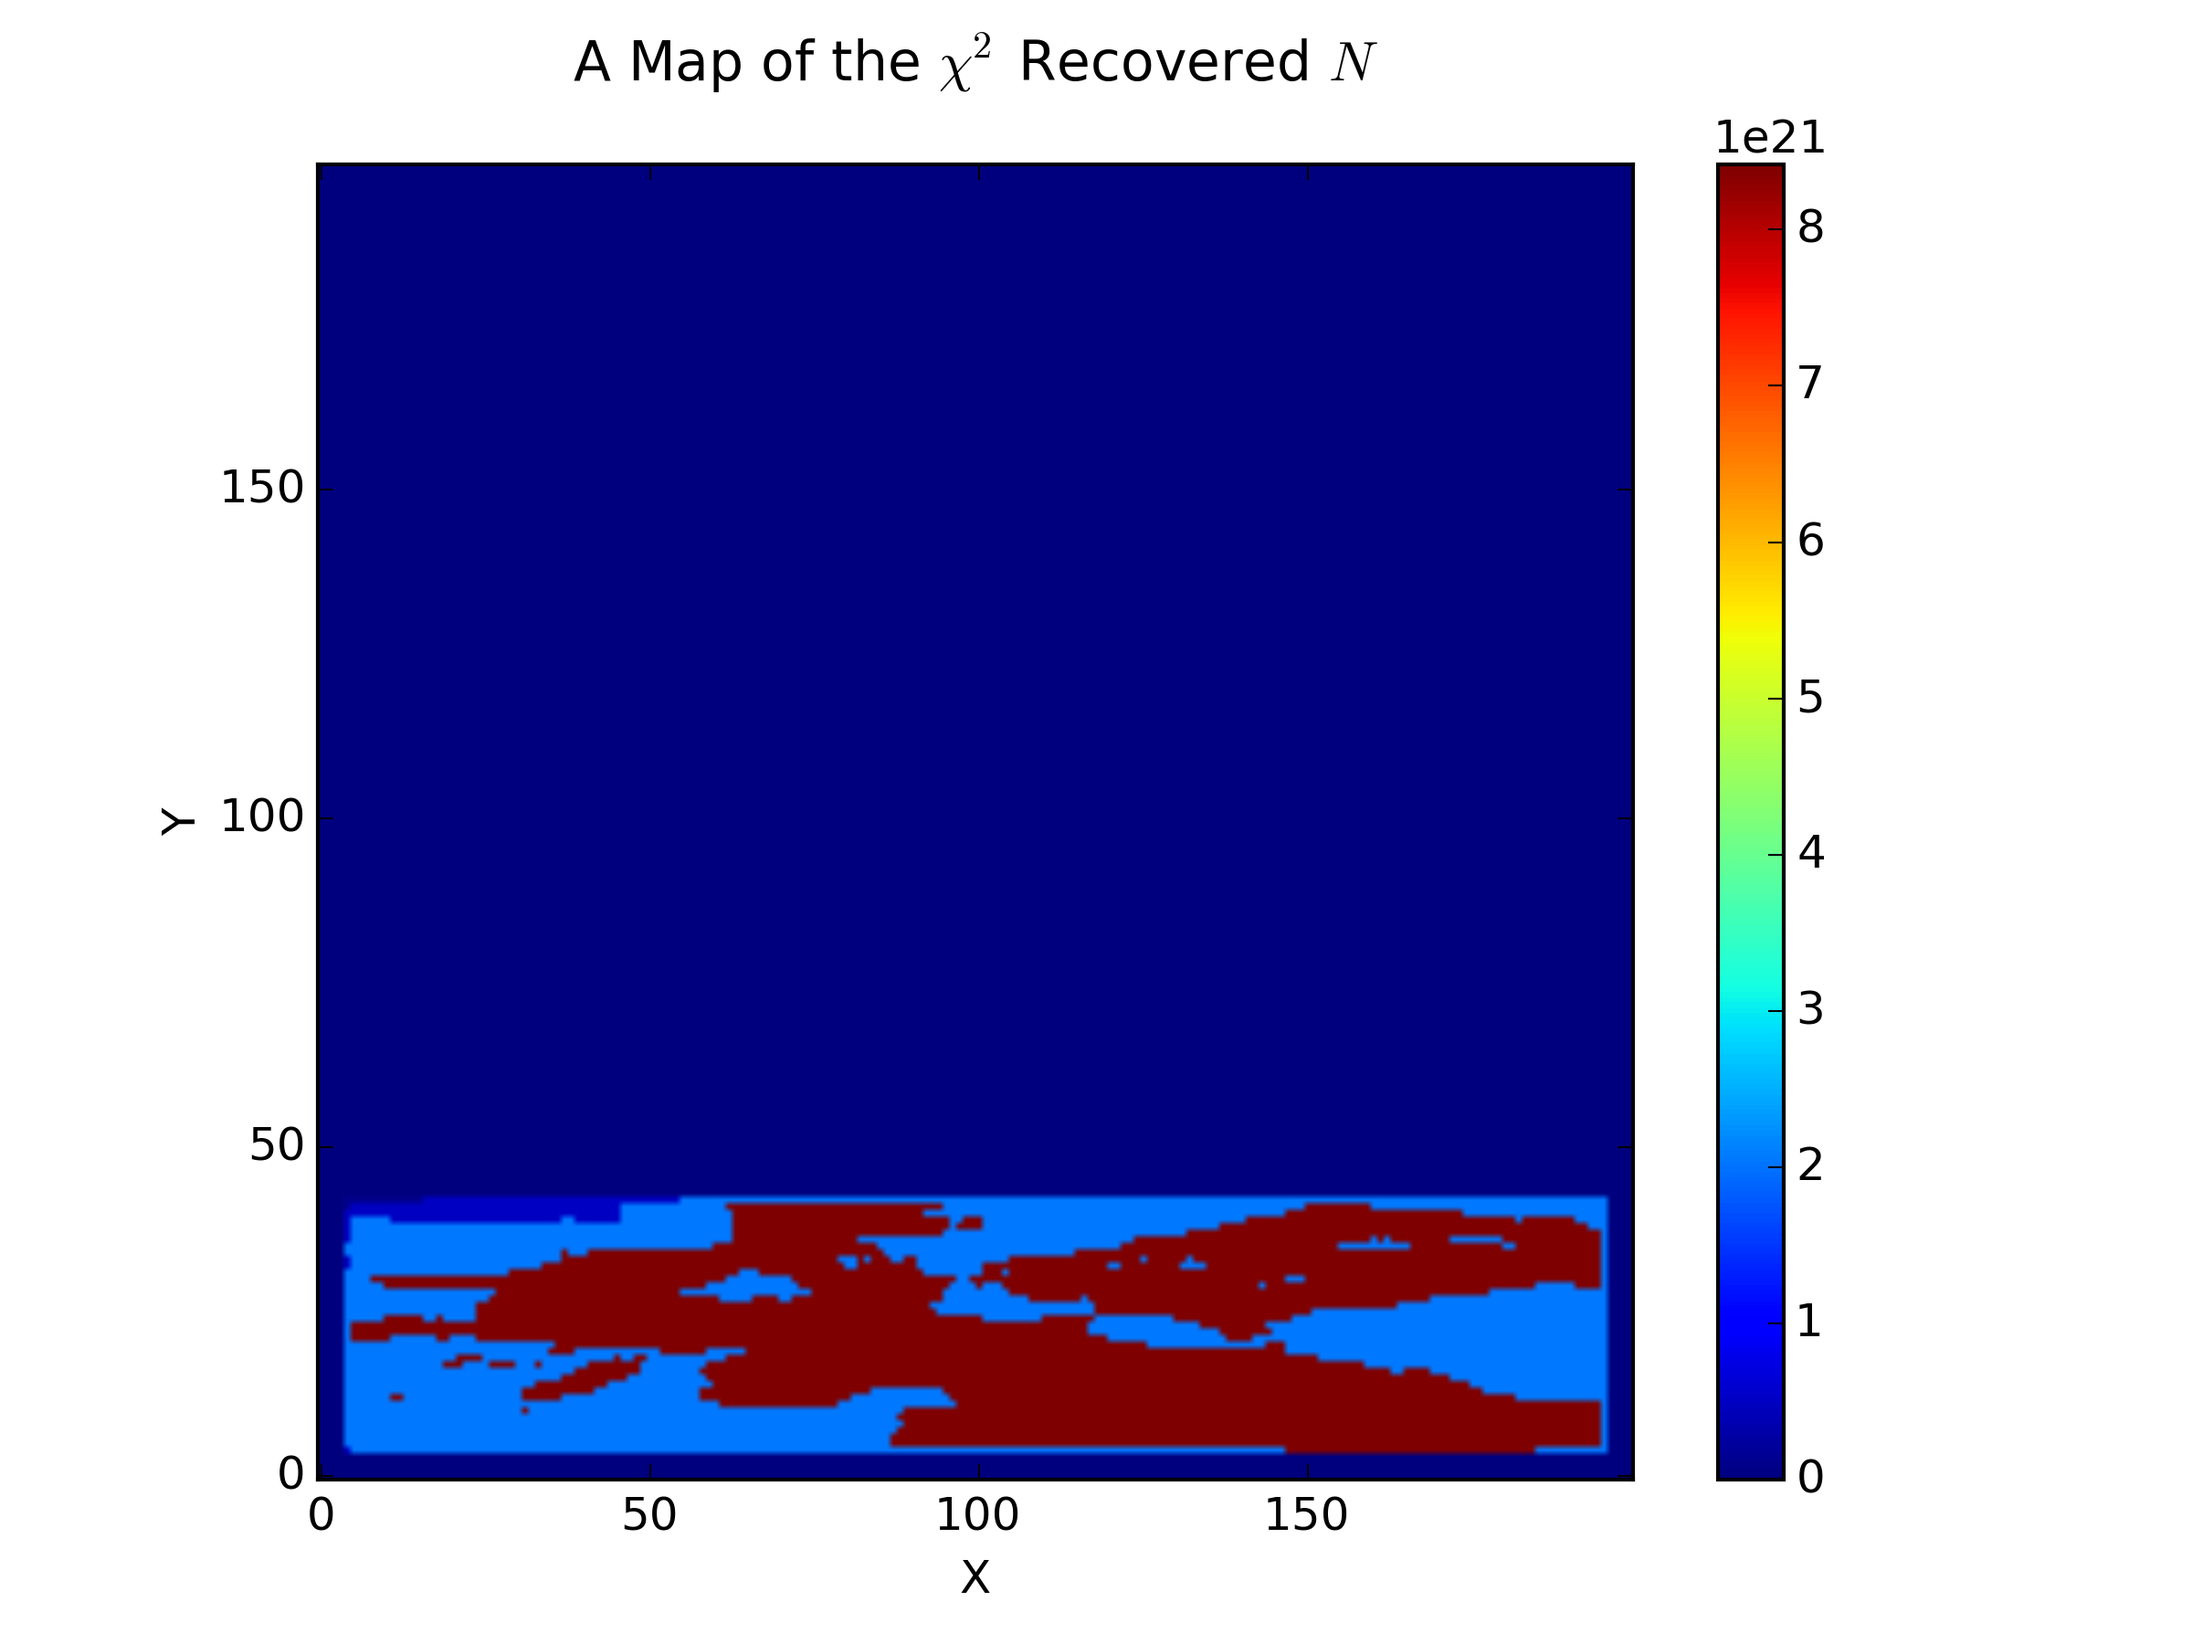
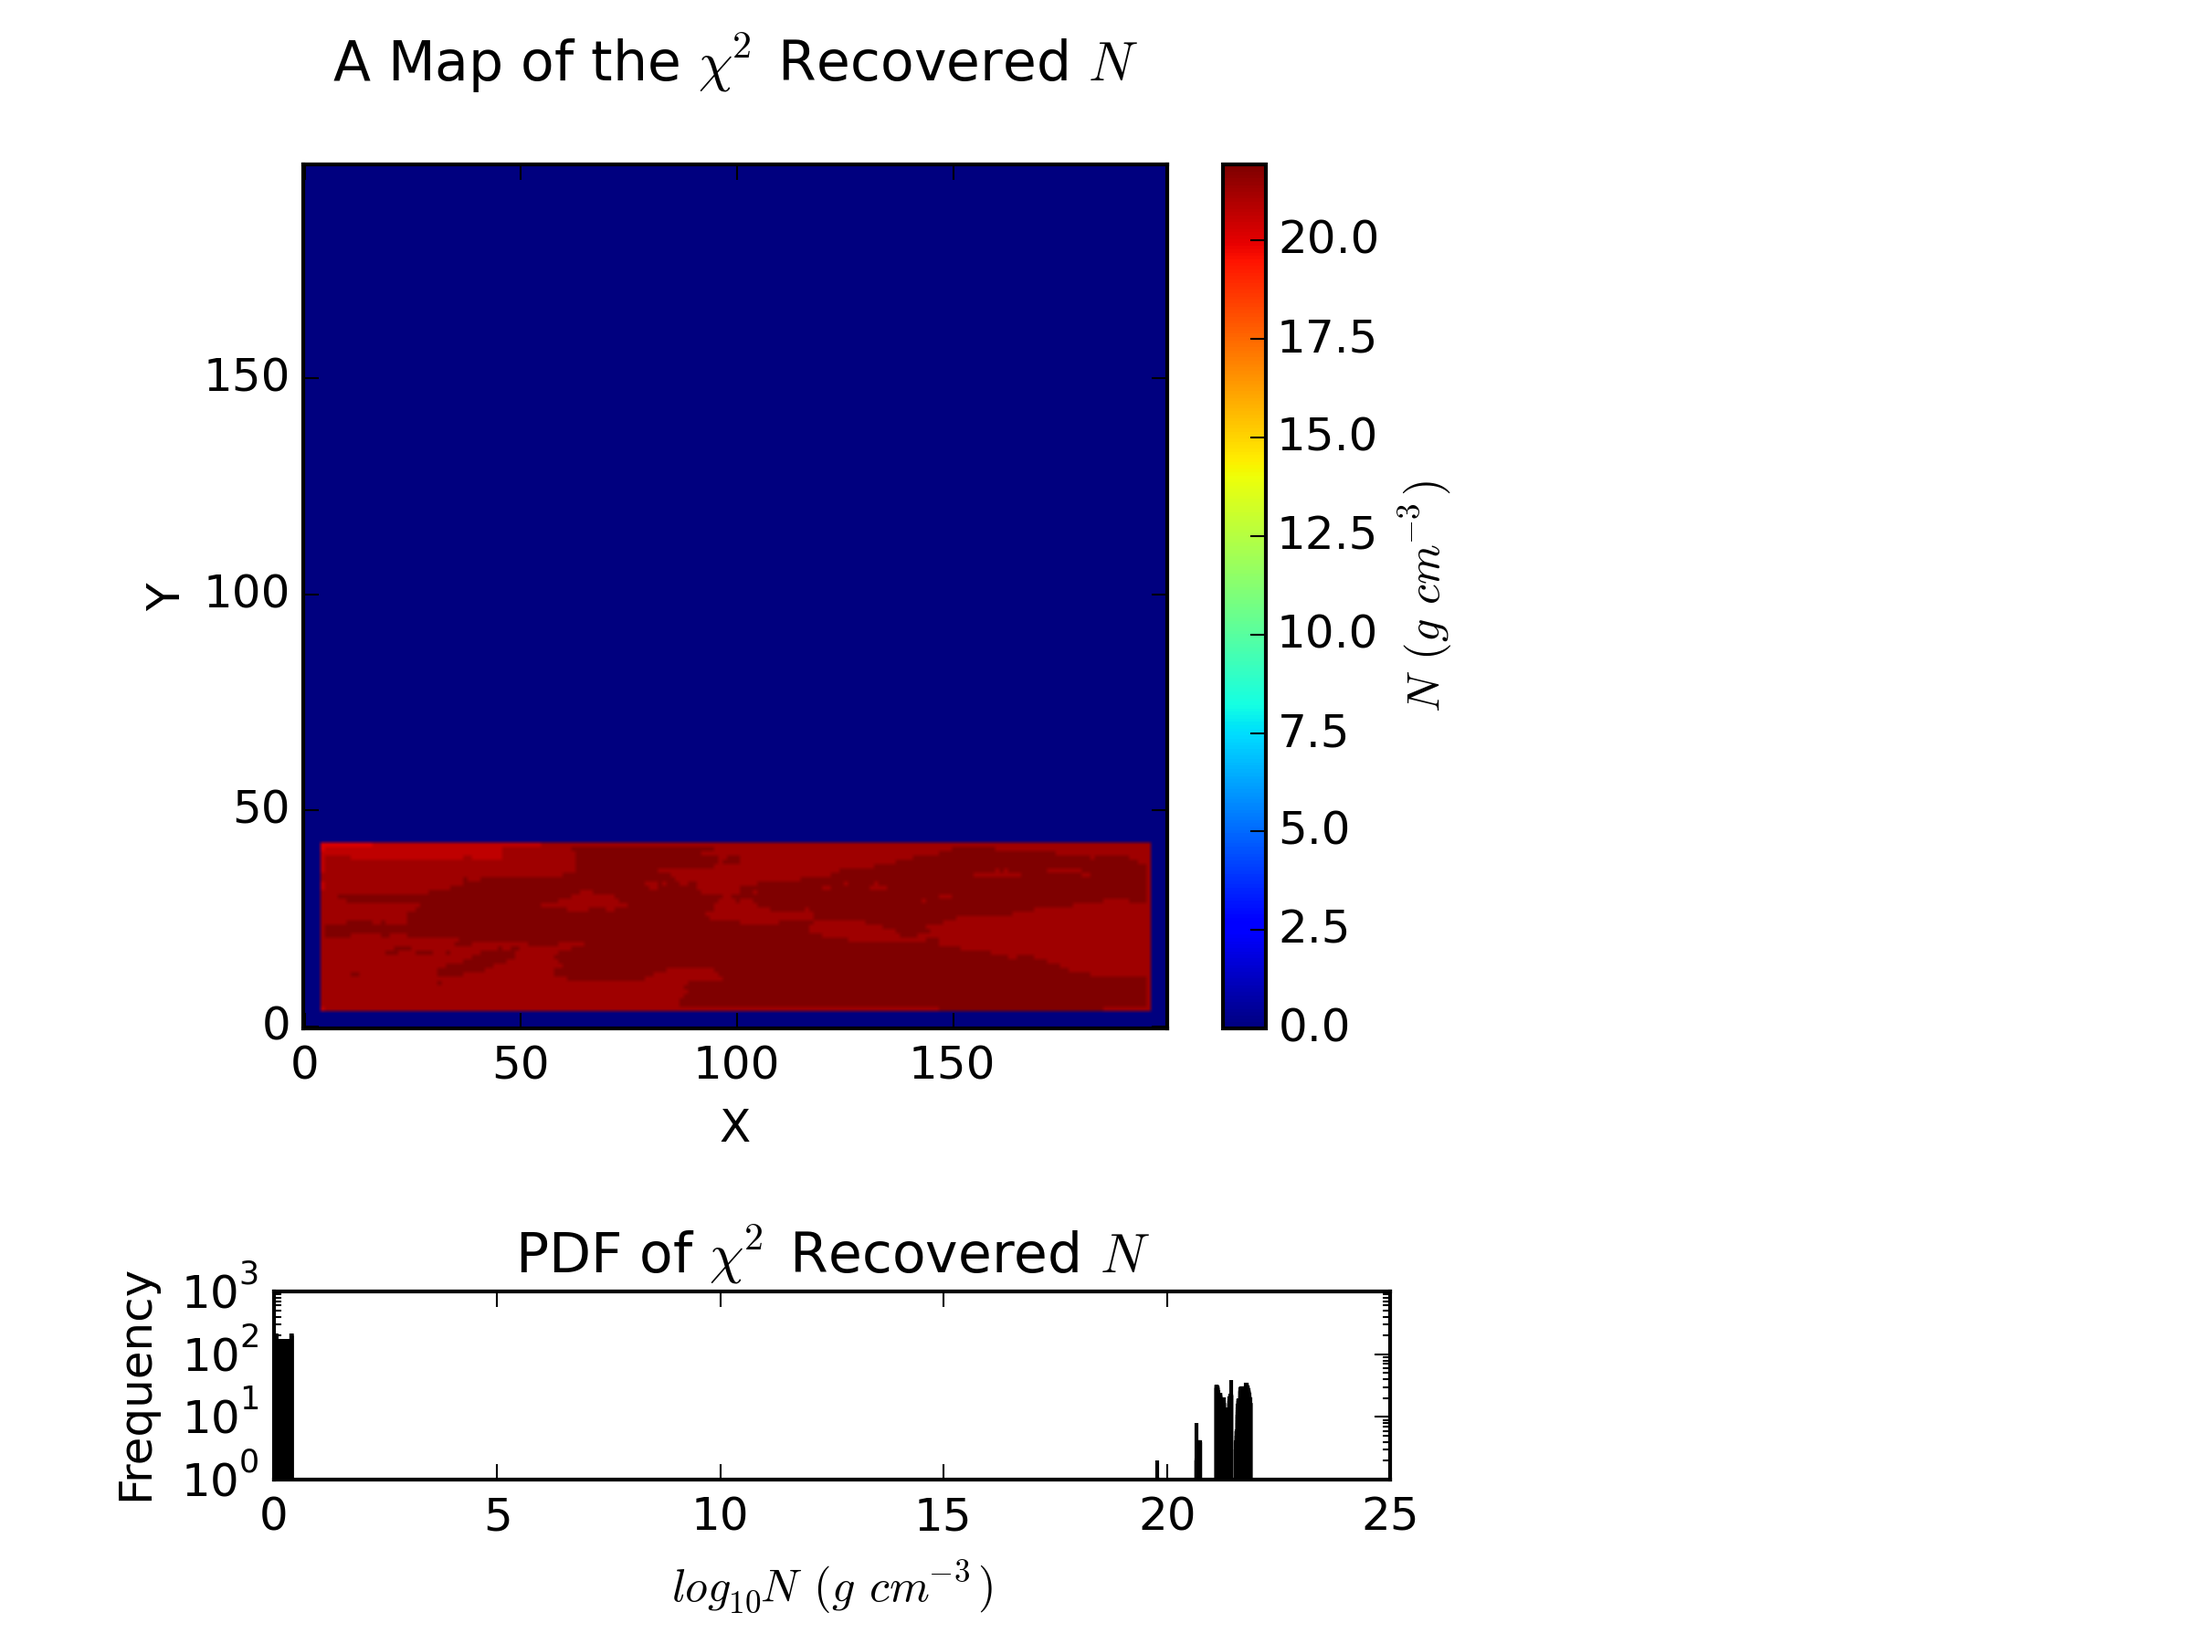
Functioning dendrogram routine now added

diff --git a/Code/simulations/imgprocess/cloud/map.py b/Code/simulations/imgprocess/cloud/map.py
@@ -47,43 +47,71 @@ T_chi_inp = np.reshape(chi_T, (np.sqrt(len(chi_data)),np.sqrt(len(chi_data))))
 N_data_inp = np.reshape(inp_N, (np.sqrt(len(inp_data)),np.sqrt(len(inp_data))))
 T_data_inp = np.reshape(inp_T, (np.sqrt(len(inp_data)),np.sqrt(len(inp_data))))
 
-# Plot the 2 images side by side for comparison
-figure(1)
-imshow(N_chi_inp,origin='lower')
-colorbar()
+# Plot the data along with a PDF
+subplot2grid((6,6), (0,0), colspan=4,rowspan=4)
+imshow(np.log10(N_chi_inp),origin='lower')
+colorbar(label='$N\/(g\/cm^{-3})$')
 xlabel('X')
 ylabel('Y')
 title('A Map of the $\chi^{2}$ Recovered $N$\n')
+
+subplot2grid((6,6), (5,0), colspan=4,rowspan=1)
+hist(np.log10(N_chi_inp),bins=50,log=True)
+title('PDF of $\chi^{2}$ Recovered $N$')
+xlabel('$log_{10}N\/(g\/cm^{-3})$')
+ylabel('Frequency')
+
 savefig('map_N_chi.png', dpi=300)
 close()
 
-figure(2)
+# Plot the data along with a PDF
+subplot2grid((6,6), (0,0), colspan=4,rowspan=4)
 imshow(T_chi_inp,origin='lower')
-colorbar()
+colorbar(label='$T\/(K)$')
 xlabel('X')
 ylabel('Y')
 title('A Map of the $\chi^{2}$ Recovered $T$\n')
-tight_layout()
+
+subplot2grid((6,6), (5,0), colspan=4,rowspan=1)
+hist(T_chi_inp,bins=50,log=True)
+title('PDF of $\chi^{2}$ Recovered $T$')
+xlabel('$log_{10}N\/(g\/cm^{-3})$')
+ylabel('Frequency')
+
 savefig('map_T_chi.png', dpi=300)
 close()
 
-figure(3)
-imshow(N_data_inp,origin='lower')
-colorbar()
+# Plot the data along with a PDF
+subplot2grid((6,6), (0,0), colspan=4,rowspan=4)
+imshow(np.log10(N_data_inp),origin='lower')
+colorbar(label='$N\/(g\/cm^{-3})$')
 xlabel('X')
 ylabel('Y')
-title('A Map of the $N$ from the User Defined Values\n')
-tight_layout()
+title('A Map of the Data Input $N$\n')
+
+subplot2grid((6,6), (5,0), colspan=4,rowspan=1)
+hist(np.log10(N_data_inp),bins=50,log=True)
+title('PDF of Data Input $N$')
+xlabel('$log_{10}N\/(g\/cm^{-3})$')
+ylabel('Frequency')
+
 savefig('map_N_data.png', dpi=300)
 close()
 
-figure(4)
+# Plot the data along with a PDF
+subplot2grid((6,6), (0,0), colspan=4,rowspan=4)
 imshow(T_data_inp,origin='lower')
-colorbar()
+colorbar(label='$T\/(K)$')
 xlabel('X')
 ylabel('Y')
-title('A Map of the $T$ from the User Defined Values\n')
-tight_layout()
+title('A Map of the Data Input $T$\n')
+
+subplot2grid((6,6), (5,0), colspan=4,rowspan=1)
+hist(T_data_inp,bins=50,log=True)
+title('PDF of Data Input $T$')
+xlabel('$log_{10}N\/(g\/cm^{-3})$')
+ylabel('Frequency')
+
 savefig('map_T_data.png', dpi=300)
 close()
 

diff --git a/Code/simulations/imgprocess/sphdata/map.py b/Code/simulations/imgprocess/sphdata/map.py
@@ -48,43 +48,71 @@ T_chi_inp = np.reshape(chi_T, (np.sqrt(len(chi_data)),np.sqrt(len(chi_data))))
 N_data_inp = np.reshape(inp_N, (np.sqrt(len(inp_data)),np.sqrt(len(inp_data))))
 T_data_inp = np.reshape(inp_T, (np.sqrt(len(inp_data)),np.sqrt(len(inp_data))))
 
-# Plot the 2 images side by side for comparison
-figure(1)
-imshow(N_chi_inp,origin='lower')
-colorbar()
+# Plot the data along with a PDF
+subplot2grid((6,6), (0,0), colspan=4,rowspan=4)
+imshow(np.log10(N_chi_inp),origin='lower')
+colorbar(label='$N\/(g\/cm^{-3})$')
 xlabel('X')
 ylabel('Y')
 title('A Map of the $\chi^{2}$ Recovered $N$\n')
+
+subplot2grid((6,6), (5,0), colspan=4,rowspan=1)
+hist(np.log10(N_chi_inp),bins=50,log=True)
+title('PDF of $\chi^{2}$ Recovered $N$')
+xlabel('$log_{10}N\/(g\/cm^{-3})$')
+ylabel('Frequency')
+
 savefig('map_N_chi.png', dpi=300)
 close()
 
-figure(2)
+# Plot the data along with a PDF
+subplot2grid((6,6), (0,0), colspan=4,rowspan=4)
 imshow(T_chi_inp,origin='lower')
-colorbar()
+colorbar(label='$T\/(K)$')
 xlabel('X')
 ylabel('Y')
 title('A Map of the $\chi^{2}$ Recovered $T$\n')
-tight_layout()
+
+subplot2grid((6,6), (5,0), colspan=4,rowspan=1)
+hist(T_chi_inp,bins=50,log=True)
+title('PDF of $\chi^{2}$ Recovered $T$')
+xlabel('$log_{10}N\/(g\/cm^{-3})$')
+ylabel('Frequency')
+
 savefig('map_T_chi.png', dpi=300)
 close()
 
-figure(3)
-imshow(N_data_inp,origin='lower')
-colorbar()
+# Plot the data along with a PDF
+subplot2grid((6,6), (0,0), colspan=4,rowspan=4)
+imshow(np.log10(N_data_inp),origin='lower')
+colorbar(label='$N\/(g\/cm^{-3})$')
 xlabel('X')
 ylabel('Y')
-title('A Map of the $N$ from the User Defined Values\n')
-tight_layout()
+title('A Map of the Data Input $N$\n')
+
+subplot2grid((6,6), (5,0), colspan=4,rowspan=1)
+hist(np.log10(N_data_inp),bins=50,log=True)
+title('PDF of Data Input $N$')
+xlabel('$log_{10}N\/(g\/cm^{-3})$')
+ylabel('Frequency')
+
 savefig('map_N_data.png', dpi=300)
 close()
 
-figure(4)
+# Plot the data along with a PDF
+subplot2grid((6,6), (0,0), colspan=4,rowspan=4)
 imshow(T_data_inp,origin='lower')
-colorbar()
+colorbar(label='$T\/(K)$')
 xlabel('X')
 ylabel('Y')
-title('A Map of the $T$ from the User Defined Values\n')
-tight_layout()
+title('A Map of the Data Input $T$\n')
+
+subplot2grid((6,6), (5,0), colspan=4,rowspan=1)
+hist(T_data_inp,bins=50,log=True)
+title('PDF of Data Input $T$')
+xlabel('$log_{10}N\/(g\/cm^{-3})$')
+ylabel('Frequency')
+
 savefig('map_T_data.png', dpi=300)
 close()
 

diff --git a/Code/simulations/imgprocess/cloud/dendrogram.py b/Code/simulations/imgprocess/cloud/dendrogram.py
@@ -42,11 +42,13 @@ for file in glob.glob('*.fits'):
     # Read in using astropy and then append the data to a list for use later
     contents = fits.getdata(str(file))
 
+    '''
     # Append the name of the file to the position (count+len(data)) followed by
     # the file contents
     data.insert(count+len(data), file)
     data.append(contents)
     filenames.append(file)
+    '''
 
     # Define a dendrogram instance
     d = Dendrogram.compute(contents, verbose=True)
@@ -57,12 +59,34 @@ for file in glob.glob('*.fits'):
     # Add the data to a figure
     fig = figure()
     ax = fig.add_subplot(1, 1, 1)
-    ax.imshow(contents, origin='lower', interpolation='nearest', cmap=cm.Blues, vmax=4.0)
+
+    # Plot the entire tree in black
+    p.plot_tree(ax, color='black')
+
+    # Add labels to the plot
+    if 'T_chi' in file:
+        ax.set_xlabel('Structure')
+        ax.set_ylabel('$T\/(K)$')
+        title('A Dendrogram Showing the Structure of $T$ for the $\chi^{2}$ Recovered Values')
+    elif 'N_chi' in file:
+        ax.set_xlabel('Structure')
+        ax.set_ylabel('$N\/(g\/cm^{-3})$')
+        title('A Dendrogram Showing the Structure of $N$ for the $\chi^{2}$ Recovered Values')
+    elif 'T_data' in file:
+        ax.set_xlabel('Structure')
+        ax.set_ylabel('$T\/(K)$')
+        title('A Dendrogram Showing the Structure of $T$ for the Data Input Values')
+    elif 'N_chi' in file:
+        ax.set_xlabel('Structure')
+        ax.set_ylabel('$N\/(g\/cm^{-3})$')
+        title('A Dendrogram Showing the Structure of $N$ for the Data Input Values')
+
+    #ax.imshow(contents, origin='lower', interpolation='nearest', cmap=cm.Blues, vmax=4.0)
 
     # Plot black contours on to the data
     # Show contour for ``min_value``
-    p.plot_contour(ax, color='black')
+    #p.plot_contour(ax, color='black')
 
     # Save the image and then close to save memory and allow the next image to take its place
-    fig.savefig(str(file)+str('.jpg'))
+    fig.savefig(str(file)+str('.jpg'), dpi=300)
     close()

diff --git a/Code/simulations/imgprocess/sphdata/dendrogram.py b/Code/simulations/imgprocess/sphdata/dendrogram.py
@@ -42,11 +42,13 @@ for file in glob.glob('*.fits'):
     # Read in using astropy and then append the data to a list for use later
     contents = fits.getdata(str(file))
 
+    '''
     # Append the name of the file to the position (count+len(data)) followed by
     # the file contents
     data.insert(count+len(data), file)
     data.append(contents)
     filenames.append(file)
+    '''
 
     # Define a dendrogram instance
     d = Dendrogram.compute(contents, verbose=True)
@@ -57,12 +59,34 @@ for file in glob.glob('*.fits'):
     # Add the data to a figure
     fig = figure()
     ax = fig.add_subplot(1, 1, 1)
-    ax.imshow(contents, origin='lower', interpolation='nearest', cmap=cm.Blues, vmax=4.0)
+
+    # Plot the entire tree in black
+    p.plot_tree(ax, color='black')
+
+    # Add labels to the plot
+    if 'T_chi' in file:
+        ax.set_xlabel('Structure')
+        ax.set_ylabel('$T\/(K)$')
+        title('A Dendrogram Showing the Structure of $T$ for the $\chi^{2}$ Recovered Values')
+    elif 'N_chi' in file:
+        ax.set_xlabel('Structure')
+        ax.set_ylabel('$N\/(g\/cm^{-3})$')
+        title('A Dendrogram Showing the Structure of $N$ for the $\chi^{2}$ Recovered Values')
+    elif 'T_data' in file:
+        ax.set_xlabel('Structure')
+        ax.set_ylabel('$T\/(K)$')
+        title('A Dendrogram Showing the Structure of $T$ for the Data Input Values')
+    elif 'N_chi' in file:
+        ax.set_xlabel('Structure')
+        ax.set_ylabel('$N\/(g\/cm^{-3})$')
+        title('A Dendrogram Showing the Structure of $N$ for the Data Input Values')
+
+    #ax.imshow(contents, origin='lower', interpolation='nearest', cmap=cm.Blues, vmax=4.0)
 
     # Plot black contours on to the data
     # Show contour for ``min_value``
-    p.plot_contour(ax, color='black')
+    #p.plot_contour(ax, color='black')
 
     # Save the image and then close to save memory and allow the next image to take its place
-    fig.savefig(str(file)+str('.jpg'))
+    fig.savefig(str(file)+str('.jpg'), dpi=300)
     close()
